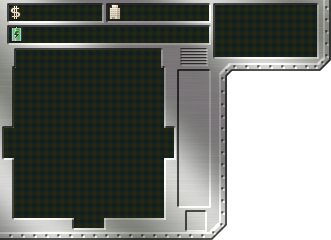
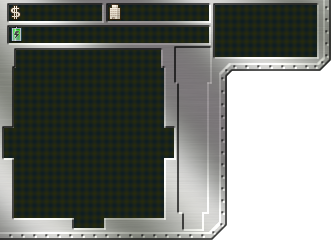
Inviting people via Facebook is now possible. Unable to build items in mission has been fixes.

Changed region(s): [[0.5136, 0.175, 0.6647, 0.9917]]

diff --git a/controltheland/src/main/java/com/btxtech/game/wicket/pages/FacebookJavaScriptSdk.js b/controltheland/src/main/java/com/btxtech/game/wicket/pages/FacebookJavaScriptSdk.js
@@ -1,0 +1,31 @@
+/**
+ * Created with IntelliJ IDEA.
+ * User: beat
+ * Date: 25.07.12
+ * Time: 14:58
+ * To change this template use File | Settings | File Templates.
+ */
+window.fbAsyncInit = function () {
+    FB.init({
+        appId:'${FACEBOOK_APP_ID}', // App ID
+        channelUrl:'${CHANNEL_URL}', // Channel File
+        status:true, // check login status
+        cookie:true, // enable cookies to allow the server to access the session
+        xfbml:true  // parse XFBML
+    });
+
+    // Additional initialization code here
+};
+
+// Load the SDK Asynchronously
+(function (d) {
+    var js, id = 'facebook-jssdk', ref = d.getElementsByTagName('script')[0];
+    if (d.getElementById(id)) {
+        return;
+    }
+    js = d.createElement('script');
+    js.id = id;
+    js.async = true;
+    js.src = "//connect.facebook.net/en_US/all.js";
+    ref.parentNode.insertBefore(js, ref);
+}(document));

diff --git a/controltheland/src/main/java/com/btxtech/game/wicket/pages/Game.html b/controltheland/src/main/java/com/btxtech/game/wicket/pages/Game.html
@@ -33,6 +33,8 @@
 </head>
 
 <body style="height: 100%;">
+<div id="fb-root"></div>
+<script wicket:id="facebookJsSkd" type="text/javascript"></script>
 <script type="text/javascript">
     var ctlStartTime = new Date().getTime();
 </script>

diff --git a/controltheland/src/main/webapp/FacebookChannelFile.html b/controltheland/src/main/webapp/FacebookChannelFile.html
@@ -1,0 +1,1 @@
+<script src="//connect.facebook.net/en_US/all.js"></script>

diff --git a/controltheland/src/main/java/com/btxtech/game/jsre/client/cockpit/SideCockpit.java b/controltheland/src/main/java/com/btxtech/game/jsre/client/cockpit/SideCockpit.java
@@ -24,6 +24,7 @@ import com.btxtech.game.jsre.client.dialogs.highscore.HighscoreDialog;
 import com.btxtech.game.jsre.client.dialogs.inventory.InventoryDialog;
 import com.btxtech.game.jsre.client.dialogs.quest.QuestInfo;
 import com.btxtech.game.jsre.client.utg.ClientLevelHandler;
+import com.btxtech.game.jsre.common.FacebookUtils;
 import com.btxtech.game.jsre.common.ProgressBar;
 import com.btxtech.game.jsre.common.packets.BoxPickedPacket;
 import com.google.gwt.dom.client.Style;
@@ -87,9 +88,9 @@ public class SideCockpit {
     private static final int RADAR_W = 169;
     private static final int RADAR_H = 178;
     // Buttons
-    private static final int BNT_X = 181;
-    private static final int BNT_Y = 72;
-    private static final int BNT_Y_SPACE = 27;
+    private static final int BNT_X = 179;
+    private static final int BNT_Y = 82;
+    private static final int BNT_Y_SPACE = 26;
     private static final int BNT_INVENTORY_X = BNT_X;
     private static final int BNT_INVENTORY_Y = BNT_Y;
     private static final int BNT_ALLIANCE_X = BNT_X;
@@ -101,8 +102,10 @@ public class SideCockpit {
     private static final int BNT_STAT_X = BNT_X;
     private static final int BNT_STAT_Y = BNT_MUTE_Y + BNT_Y_SPACE;
     // Social net
-    private static final int BNT_FB_COMMUNITY_X = 188;
+    private static final int BNT_FB_COMMUNITY_X = 185;
     private static final int BNT_FB_COMMUNITY_Y = 213;
+    private static final int BNT_FB_INVITE_X = 177;
+    private static final int BNT_FB_INVITE_Y = 49;
     // Debug
     private static final int DEBUG_X = 10;
     private static final int DEBUG_Y = 222;
@@ -303,6 +306,12 @@ public class SideCockpit {
     private void setupSocialNetPanel() {
         WebBrowserCustomButton facebookCommunity = new WebBrowserCustomButton("facebookcommunity", ToolTips.TOOL_TIP_FACEBOOK_COMMUNITY, "http://www.facebook.com/RazarionCommunity");
         mainPanel.add(facebookCommunity, BNT_FB_COMMUNITY_X, BNT_FB_COMMUNITY_Y);
+        mainPanel.add(new ExtendedCustomButton("facebookinvite", false, ToolTips.TOOL_TIP_FACEBOOK_INVITE, new ClickHandler() {
+            @Override
+            public void onClick(ClickEvent event) {
+                FacebookUtils.invite();
+            }
+        }), BNT_FB_INVITE_X, BNT_FB_INVITE_Y);
     }
 
     public void debugAbsoluteCursorPos(int x, int y) {

diff --git a/controltheland/src/main/java/com/btxtech/game/wicket/uiservices/cms/impl/CmsUiServiceImpl.java b/controltheland/src/main/java/com/btxtech/game/wicket/uiservices/cms/impl/CmsUiServiceImpl.java
@@ -121,8 +121,10 @@ public class CmsUiServiceImpl implements CmsUiService {
     private UserGuidanceService userGuidanceService;
     @Value(value = "${facebook.appsecret}")
     private String facebookAppSecret;
-    @Value(value = "${facebook.appkey}")
-    private String facebookAppKey;
+    @Value(value = "${facebook.appid}")
+    private String facebookAppId;
+    @Value(value = "${facebook.appnamespace}")
+    private String facebookAppNameSpace;
 
     private Log log = LogFactory.getLog(CmsUiServiceImpl.class);
     private Map<CmsUtil.CmsPredefinedPage, String> predefinedUrls = new HashMap<>();
@@ -1118,8 +1120,8 @@ public class CmsUiServiceImpl implements CmsUiService {
                     // Is NOT authorized by facebook
                     PackagedTextTemplate jsTemplate = new PackagedTextTemplate(CmsPage.class, "FacebookOAuthDialogRedirect.js");
                     Map<String, Object> parameters = new HashMap<>();
-                    parameters.put("FACEBOOK_APP_ID", facebookAppKey);
-                    parameters.put("FACEBOOK_APP_NAMESPACE", "razarion");
+                    parameters.put("FACEBOOK_APP_ID", facebookAppId);
+                    parameters.put("FACEBOOK_APP_NAMESPACE", facebookAppNameSpace);
                     //parameters.put("FACEBOOK_APP_NAMESPACE", "testing_purposes");
                     parameters.put("FACEBOOK_PERMISSIONS", "");
                     component.add(new StringHeaderContributor(new JavaScriptTemplate(jsTemplate).asString(parameters)));
@@ -1128,5 +1130,15 @@ public class CmsUiServiceImpl implements CmsUiService {
         } catch (Exception e) {
             log.error("", e);
         }
+    }
+
+    @Override
+    public String getFacebookAppSecret() {
+        return facebookAppSecret;
+    }
+
+    @Override
+    public String getFacebookAppId() {
+        return facebookAppId;
     }
 }

diff --git a/controltheland/src/main/java/com/btxtech/game/wicket/pages/Game.java b/controltheland/src/main/java/com/btxtech/game/wicket/pages/Game.java
@@ -23,7 +23,12 @@ import org.apache.wicket.PageParameters;
 import org.apache.wicket.behavior.SimpleAttributeModifier;
 import org.apache.wicket.markup.html.WebPage;
 import org.apache.wicket.markup.html.basic.Label;
+import org.apache.wicket.model.Model;
 import org.apache.wicket.spring.injection.annot.SpringBean;
+import org.apache.wicket.util.template.PackagedTextTemplate;
+
+import java.util.HashMap;
+import java.util.Map;
 
 /**
  * User: beat
@@ -46,6 +51,8 @@ public class Game extends WebPage {
             return;
         }
 
+        setupFacebookJsSdk();
+
         GameStartupSeq gameStartupSeq;
 
         if (parameters.containsKey(com.btxtech.game.jsre.client.Game.LEVEL_TASK_ID)) {
@@ -58,6 +65,14 @@ public class Game extends WebPage {
         add(new Label("startupTaskText", gameStartupSeq.getAbstractStartupTaskEnum()[0].getStartupTaskEnumHtmlHelper().getNiceText()));
 
         setupStartupSeq(gameStartupSeq, levelTaskId);
+    }
+
+    private void setupFacebookJsSdk() {
+        PackagedTextTemplate jsTemplate = new PackagedTextTemplate(Game.class, "FacebookJavaScriptSdk.js");
+        Map<String, Object> parameters = new HashMap<>();
+        parameters.put("FACEBOOK_APP_ID", cmsUiService.getFacebookAppId());
+        parameters.put("CHANNEL_URL", "//www.razarion.com/FacebookChannelFile.html");
+        add(new Label("facebookJsSkd", new Model<>(jsTemplate.asString(parameters))).setEscapeModelStrings(false));
     }
 
     private void setupStartupSeq(GameStartupSeq gameStartupSeq, Integer levelTaskId) {

diff --git a/controltheland/src/main/java/com/btxtech/game/jsre/common/FacebookUtils.java b/controltheland/src/main/java/com/btxtech/game/jsre/common/FacebookUtils.java
@@ -1,0 +1,34 @@
+package com.btxtech.game.jsre.common;
+
+import com.google.gwt.core.client.JavaScriptObject;
+
+import java.util.logging.Logger;
+
+/**
+ * User: beat
+ * Date: 25.07.12
+ * Time: 17:15
+ */
+public class FacebookUtils {
+    private static Logger log = Logger.getLogger(FacebookUtils.class.getName());
+
+    public static void invite() {
+        nativeInvite("Play Razarion with me!", "Been having a blast playing Razarion, come check it out.");
+    }
+
+    native private static void nativeInvite(String title, String message)/*-{
+        $wnd.FB.ui({method:'apprequests',
+                    title:title,
+                    message:message},
+                $wnd.RazFacebookUtilFbCallback);
+    }-*/;
+
+    public static void fbUiCallBack(JavaScriptObject object) {
+        log.severe("FacebookUtils.fbUiCallBack() " + object);
+    }
+
+    public static native void exportStaticMethod() /*-{
+        $wnd.RazFacebookUtilFbCallback = $entry(@com.btxtech.game.jsre.common.FacebookUtils::fbUiCallBack(Lcom/google/gwt/core/client/JavaScriptObject;));
+    }-*/;
+
+}

diff --git a/controltheland/src/main/java/com/btxtech/game/jsre/client/Game.java b/controltheland/src/main/java/com/btxtech/game/jsre/client/Game.java
@@ -15,6 +15,7 @@ package com.btxtech.game.jsre.client;
 
 import com.btxtech.game.jsre.client.control.GameStartupSeq;
 import com.btxtech.game.jsre.client.utg.ClientUserTracker;
+import com.btxtech.game.jsre.common.FacebookUtils;
 import com.google.gwt.core.client.EntryPoint;
 import com.google.gwt.user.client.Window;
 import com.google.gwt.user.client.ui.RootPanel;
@@ -29,6 +30,7 @@ public class Game implements EntryPoint {
         try {
             GwtCommon.setUncaughtExceptionHandler();
             ClientAllianceHandler.exportStaticMethod();
+            FacebookUtils.exportStaticMethod();
             ClientUserTracker.getInstance().registerWindowsCloseHandler();
             isDebug = Boolean.parseBoolean(Window.Location.getParameter(DEBUG_PARAM));
             ClientServices.getInstance().connectStartupListeners();

diff --git a/controltheland/src/test/java/com/btxtech/game/services/bot/TestBotRunner.java b/controltheland/src/test/java/com/btxtech/game/services/bot/TestBotRunner.java
@@ -136,7 +136,7 @@ public class TestBotRunner extends AbstractServiceTest {
         waitForBotRunner(botRunner);
         assertWholeItemCount(1);
         SimpleBase simpleBase2 = botRunner.getBase();
-        // TODO Failed on 24.07.2012
+        // TODO Failed on 24.07.2012, 26.07.2012
         Assert.assertNotSame(simpleBase1, simpleBase2);
         Assert.assertEquals("Bot2", baseService.getBaseName(simpleBase2));
 

diff --git a/controltheland/src/main/java/com/btxtech/game/jsre/client/cockpit/ToolTips.java b/controltheland/src/main/java/com/btxtech/game/jsre/client/cockpit/ToolTips.java
@@ -43,5 +43,6 @@ public class ToolTips {
     public static final String TOOL_TIP_RADAR_PAGE_DOWN = "Page down";
     // Social net
     public static final String TOOL_TIP_FACEBOOK_COMMUNITY = "Visit razarion on facebook";
+    public static final String TOOL_TIP_FACEBOOK_INVITE = "Invite friends from Facebook";
 
 }

diff --git a/controltheland/src/main/java/com/btxtech/game/wicket/uiservices/cms/CmsUiService.java b/controltheland/src/main/java/com/btxtech/game/wicket/uiservices/cms/CmsUiService.java
@@ -108,4 +108,8 @@ public interface CmsUiService {
     void setFacebookSignedRequest(FacebookSignedRequest facebookSignedRequest);
 
     void handleFacebookRequest(PageParameters pageParameters, Component component);
+
+    String getFacebookAppSecret();
+
+    String getFacebookAppId();
 }
